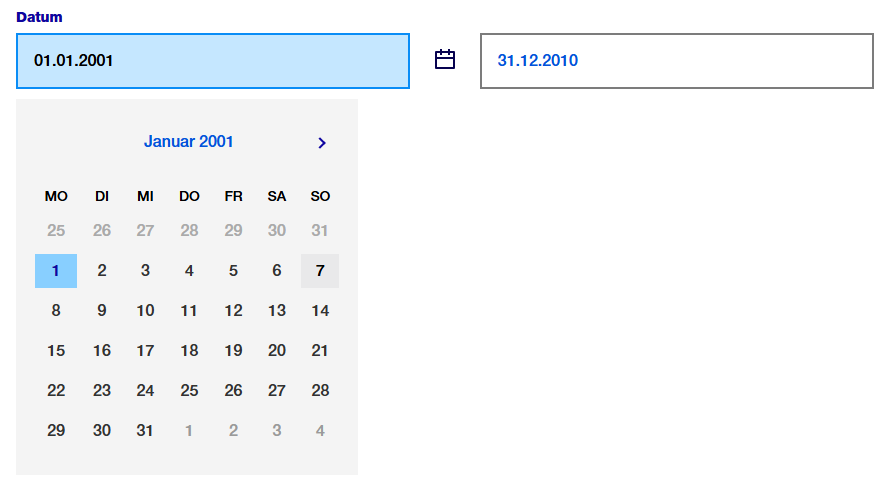
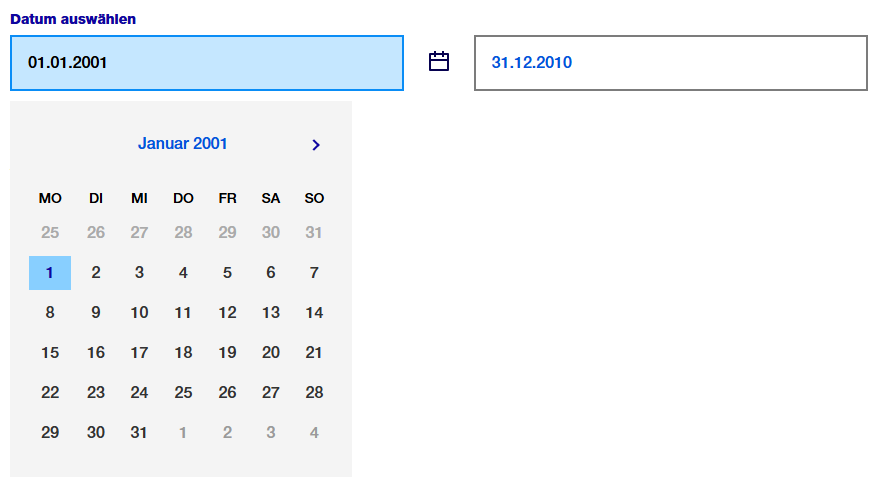
update docu

diff --git a/README.md b/README.md
@@ -57,6 +57,8 @@ ui <- add_zcss_deps(fixedPage(...))
 
 This ensures that all `zuericssstyle` widgets are rendered with the correct styling work without additional setup. All additional arguments supported by the underlying Shiny functions can be passed to the corresponding `ssz*` functions.
 
+Example applications in [examples](vscode-file://vscode-app/c:/Program%20Files/Microsoft%20VS%20Code/resources/app/out/vs/code/electron-browser/workbench/workbench.html) demonstrate and allow you to test every widget included in this package.
+
 #### Numeric Input
 
 `sszNumericInput()` provides a styled numeric input field based on `numericInput()` from Shiny.
@@ -74,14 +76,14 @@ sszNumericInput("number", "Zahl", 4)
 ``` r
 sszSelectInput(
     "select",
-    "Destination",
+    "Flughafen",
     choices = c("HOU", "LAX", "JFK", "SEA"),
     selected = "LAX"
   )
 
 sszSelectInput(
     "selectmultiple",
-    "Destination (Multiple)",
+    "Flughafen (mehrere)",
     choices = c("HOU", "LAX", "JFK", "SEA"),
     multiple = TRUE
   )
@@ -235,7 +237,7 @@ div(
 `sszDateRange()` provides a styled version of `dateRangeInput()` from Shiny. By default, the language is German and the date format is `dd.mm.yyyy`. This and additional parameters to Shiny's `dateRangeInput` can be passed as parameters.
 
 ``` r
-sszDateRange("DateRange", "Datum",
+sszDateRange("DateRange", "Datum auswählen",
     start = "2001-01-01",
     end = "2010-12-31",
     min = "2001-01-01",
@@ -256,7 +258,7 @@ You can optionally supply a custom calendar icon using an HTML image tag with `h
 ``` r
 sszAirDatepickerInput(
           inputId = "airMonthStart2",
-          label = "Basis Datum",
+          label = "Datum auswählen",
           dateFormat = "MM-yyyy",
           view = "years",
           minView = "months",
